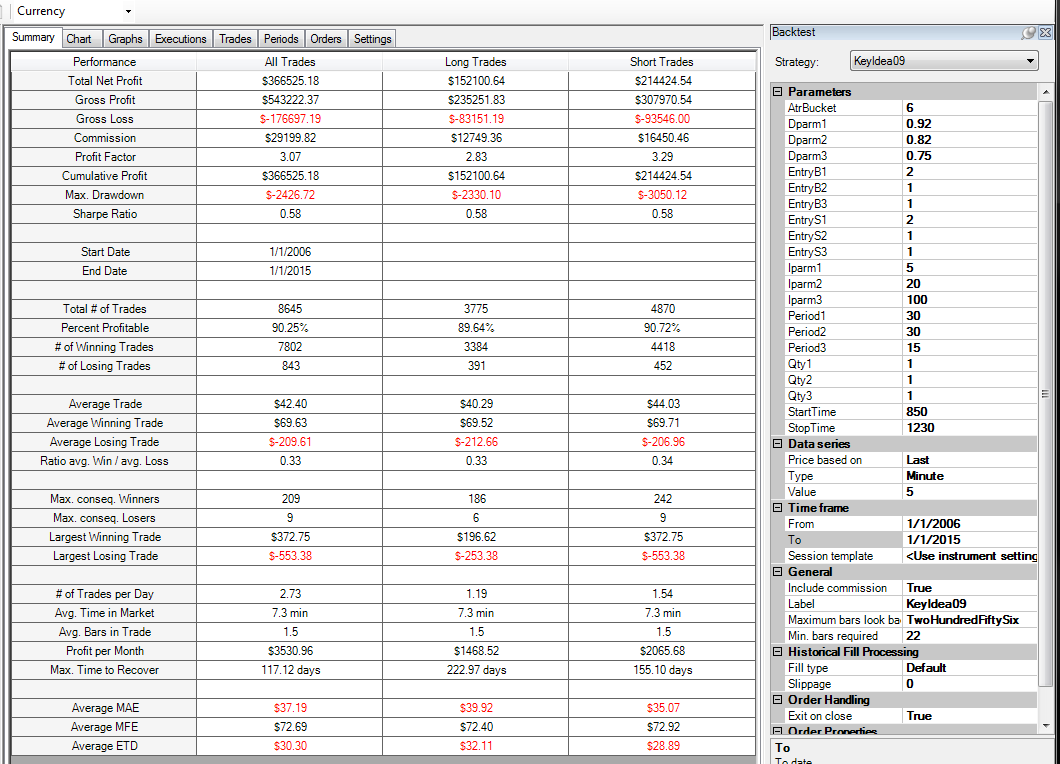
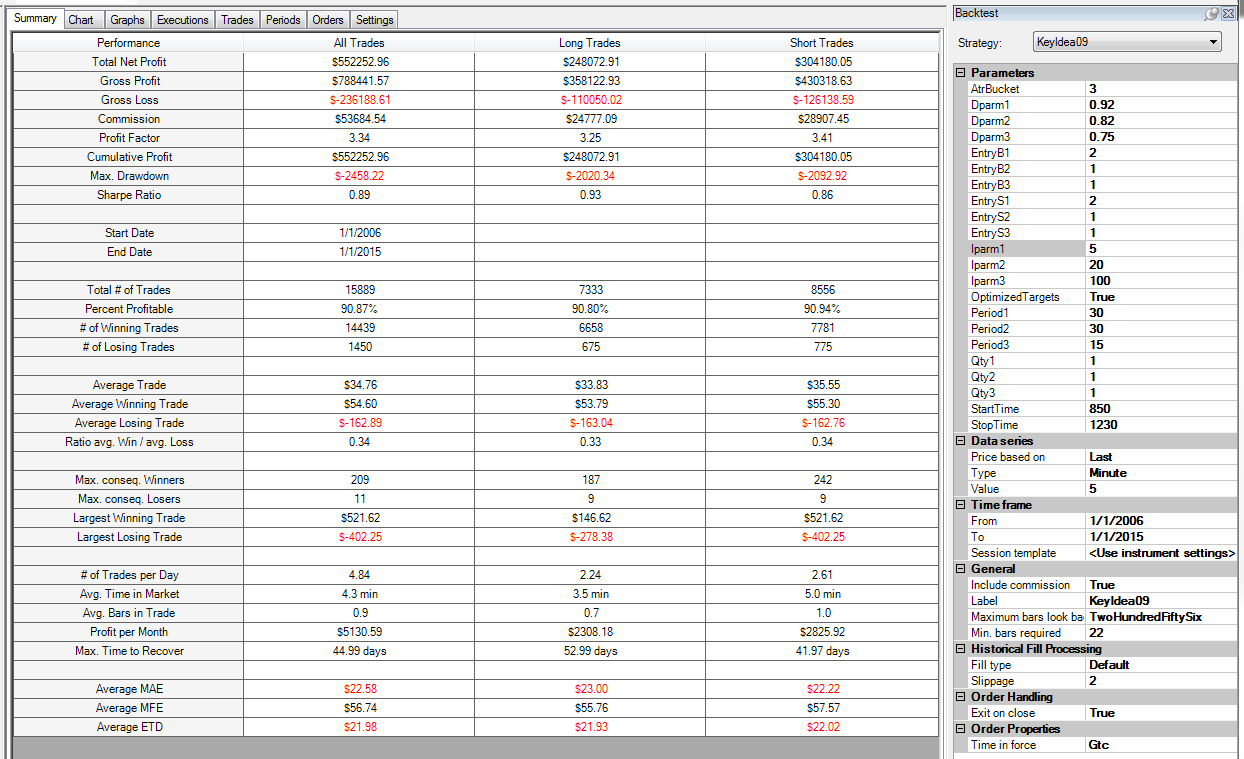
552,252.96 from 1-2006 to 1-2015 with 2 tick slip.  Saving strategy test image

diff --git a/NinjaTrader 7/bin/Custom/Strategy/KeyIdea09.cs b/NinjaTrader 7/bin/Custom/Strategy/KeyIdea09.cs
@@ -188,7 +188,7 @@ namespace NinjaTrader.Strategy
     {
         #region Variables
         // Wizard generated variables
-		private int atrBucket = 6;
+		private int atrBucket = 3;
 		
 		private int entryB1 = 2;  // Buy x ticks pullback
 		private int entryB2 = 1;  // Buy x ticks pullback
@@ -198,14 +198,16 @@ namespace NinjaTrader.Strategy
 		private int entryS2 = 1;  // Sell x ticks pullback
 		private int entryS3 = 1;  // Sell x ticks pullback
 
-		private double dparm1 = 0.92; // Default setting for Dparm1
-        private double dparm2 = 0.82; // Default setting for Dparm2
-        private double dparm3 = 0.75; // Default setting for Dparm2
+//		private double dparm1 = 0.92; // Default setting for Dparm1
+//        private double dparm2 = 0.82; // Default setting for Dparm2
+//        private double dparm3 = 0.75; // Default setting for Dparm2
         
 		private int iparm1 = 5; // Default setting for Target  
         private int iparm2 = 20; // Default setting for Stop
         private int iparm3 = 100; // Default setting for Iparm2
 
+		private bool optimizedTargets = true;
+		
         private int period1 = 30; // Default setting for Period1
         private int period2 = 30; // Default setting for Period2
         private int period3 = 15; // Default setting for Period2
@@ -213,15 +215,18 @@ namespace NinjaTrader.Strategy
 		private int startTime = 850;  // start of trading hhmm
 		private int stopTime = 1230;  // end of trading hhmm
 		
-		private double ratched = 0.68;
-		private bool isMo = true;
-		private bool is2nd = false;
+//		private double ratched = 0.68;
+//		private bool isMo = true;
+//		private bool is2nd = false;
 		
 		int qty1 = 1;
 		int qty2 = 1;
 		int qty3 = 1;
 
 		// User defined variables (add any user defined variables below)
+		int target = 0;
+		int stop = 0;
+		
 		IOrder buyOrder1 = null;
 		IOrder buyOrder2 = null;
 		IOrder buyOrder3 = null;
@@ -276,7 +281,6 @@ namespace NinjaTrader.Strategy
 		
 		HMARick hma = null;
 		ATR atr = null;
-		int atrBucketSize = 1;
 		
         #endregion
 
@@ -294,6 +298,7 @@ namespace NinjaTrader.Strategy
 			// Indicator Setup
 			// ---------------
 			hma = HMARick(Period1, 200);
+			hma.PaintPriceMarkers = false;			
 			Add(hma);
 			
 			Add(PitColor(Color.Black, 83000, 25, 161500));
@@ -323,6 +328,7 @@ namespace NinjaTrader.Strategy
             //SetStopLoss("", CalculationMode.Percent, dparm2, false);
             //SetTrailStop("", CalculationMode.Percent, dparm2, false);
 			
+			//Slippage = 2;
 			BarsRequired = 22;
             CalculateOnBarClose = true;		// Onbar update happens only on the start of a new bar vrs each tick
 			ExitOnClose = true;				// Closes open positions at the end of the session
@@ -345,12 +351,48 @@ namespace NinjaTrader.Strategy
 			
 
 			if ((ToTime(Time[0]) < StartTime * 100) || (ToTime(Time[0]) > StopTime * 100)
-				//|| (atr[0] < AtrBucket || atr[0] > (AtrBucket + 1))
-				|| (atr[0] < 2 || atr[0] > 6)
+				//|| (atr[0] < AtrBucket * 0.5 || atr[0] > (AtrBucket * 0.5 + 0.5))
+				|| (atr[0] < 0.5 || atr[0] > 6)
 				)
 			{
 				ShutDownOrders();
 				return;
+			}
+			
+			if (OptimizedTargets)
+			{
+				int bucket = (int) Math.Truncate(atr[0]/0.5);
+				switch (bucket) {
+					case 0: // not trading	
+						target = iparm1;
+						stop = iparm2;
+						break;
+					case 1:
+						target = 3;
+						stop = 6;
+						break;
+					case 2:
+						target = 3;
+						stop = 8;
+						break;
+					case 3:
+						target = 3;
+						stop = 12;
+						break;
+					case 4:
+						target = 4;
+						stop = 12;
+						break;
+					default:
+						target = iparm1;
+						stop = iparm2;
+						break;
+				}
+			} 
+			else
+			{
+				target = iparm1;
+				stop = iparm2;
 			}
 			
 			// No Trade zone
@@ -377,7 +419,7 @@ namespace NinjaTrader.Strategy
 			// ============================================
 			// New long order placement
 			// ============================================
-			if (hma.TrendSet[0] == 1) //  uptrend
+			if (hma.TrendSet[0] == 1 && sellOrder1 == null) //  uptrend
 			{
 				if (Qty1 > 0)
 				{
@@ -440,7 +482,7 @@ namespace NinjaTrader.Strategy
 			// ============================================
 			// New Short order placement
 			// ============================================
-			if (hma.TrendSet[0] == -1) //  downtrend
+			if (hma.TrendSet[0] == -1 && buyOrder1 == null) //  downtrend
 			{
 				limitPrice = High[0] + EntryS1 * TickSize;
 				stopPrice = limitPrice;
@@ -553,13 +595,13 @@ namespace NinjaTrader.Strategy
 				if (closeLongOrderLimit1 == null) 
 				{
 					limitPrice = 0;
-					stopPrice = buyOrder1.AvgFillPrice - iparm2 * TickSize;
+					stopPrice = buyOrder1.AvgFillPrice - stop * TickSize;
 					//DrawDot(CurrentBar + "stopPrice", false, 0, stopPrice, Color.Red);
 					closeLongOrderStop1 = SubmitOrder(0, OrderAction.Sell, OrderType.Stop, execution.Order.Quantity, 
 						limitPrice, stopPrice, orderPrefix + "ocoCloseB1", "CSB1");
 
 					stopPrice = 0;
-					limitPrice = buyOrder1.AvgFillPrice + iparm1 * TickSize;
+					limitPrice = buyOrder1.AvgFillPrice + target * TickSize;
 					//DrawDot(CurrentBar + "limitPrice", false, 0, limitPrice, Color.Green);
 					closeLongOrderLimit1 = SubmitOrder(0, OrderAction.Sell, OrderType.Limit, execution.Order.Quantity, 
 						limitPrice, stopPrice, orderPrefix + "ocoCloseB1", "CLB1");
@@ -571,12 +613,12 @@ namespace NinjaTrader.Strategy
 				if (closeLongOrderLimit2 == null) 
 				{
 					limitPrice = 0;
-					stopPrice = buyOrder2.AvgFillPrice - (iparm2 - EntryS2) * TickSize;
+					stopPrice = buyOrder2.AvgFillPrice - (stop - EntryS2) * TickSize;
 					closeLongOrderStop2 = SubmitOrder(0, OrderAction.Sell, OrderType.Stop, execution.Order.Quantity, 
 						limitPrice, stopPrice, orderPrefix + "ocoCloseB2", "CSB2");
 
 					stopPrice = 0;
-					limitPrice = buyOrder2.AvgFillPrice + (iparm1 + EntryS2) * TickSize;
+					limitPrice = buyOrder2.AvgFillPrice + (target + EntryS2) * TickSize;
 					closeLongOrderLimit2 = SubmitOrder(0, OrderAction.Sell, OrderType.Limit, execution.Order.Quantity, 
 						limitPrice, stopPrice, orderPrefix + "ocoCloseB2", "CLB2");
 				} 
@@ -587,12 +629,12 @@ namespace NinjaTrader.Strategy
 				if (closeLongOrderLimit3 == null) 
 				{
 					limitPrice = 0;
-					stopPrice = buyOrder3.AvgFillPrice - (iparm2 - EntryS2 - EntryS3) * TickSize;
+					stopPrice = buyOrder3.AvgFillPrice - (stop - EntryS2 - EntryS3) * TickSize;
 					closeLongOrderStop3 = SubmitOrder(0, OrderAction.Sell, OrderType.Stop, execution.Order.Quantity, 
 						limitPrice, stopPrice, orderPrefix + "ocoCloseB3", "CSB3");
 
 					stopPrice = 0;
-					limitPrice = buyOrder3.AvgFillPrice + (iparm1 + EntryS2 + EntryS3) * TickSize;
+					limitPrice = buyOrder3.AvgFillPrice + (target + EntryS2 + EntryS3) * TickSize;
 					closeLongOrderLimit3 = SubmitOrder(0, OrderAction.Sell, OrderType.Limit, execution.Order.Quantity, 
 						limitPrice, stopPrice, orderPrefix + "ocoCloseB3", "CLB3");
 				}
@@ -608,13 +650,13 @@ namespace NinjaTrader.Strategy
 				if (closeShortOrderLimit1 == null) 
 				{
 					limitPrice = 0;
-					stopPrice = sellOrder1.AvgFillPrice + iparm2 * TickSize;
+					stopPrice = sellOrder1.AvgFillPrice + stop * TickSize;
 					//DrawDot(CurrentBar + "stopPrice", false, 0, stopPrice, Color.Red);
 					closeLongOrderStop1 = SubmitOrder(0, OrderAction.BuyToCover, OrderType.Stop, execution.Order.Quantity, 
 						limitPrice, stopPrice, orderPrefix + "ocoCloseS1", "CSS1");
 
 					stopPrice = 0;
-					limitPrice = sellOrder1.AvgFillPrice - iparm1 * TickSize;
+					limitPrice = sellOrder1.AvgFillPrice - target * TickSize;
 					//DrawDot(CurrentBar + "limitPrice", false, 0, limitPrice, Color.Green);
 					closeShortOrderLimit1 = SubmitOrder(0, OrderAction.BuyToCover, OrderType.Limit, execution.Order.Quantity, 
 						limitPrice, stopPrice, orderPrefix + "ocoCloseS1", "CLS1");
@@ -626,12 +668,12 @@ namespace NinjaTrader.Strategy
 				if (closeShortOrderLimit2 == null) 
 				{
 					limitPrice = 0;
-					stopPrice = sellOrder2.AvgFillPrice + (iparm2 - EntryS2) * TickSize;
+					stopPrice = sellOrder2.AvgFillPrice + (stop - EntryS2) * TickSize;
 					closeLongOrderStop2 = SubmitOrder(0, OrderAction.BuyToCover, OrderType.Stop, execution.Order.Quantity, 
 						limitPrice, stopPrice, orderPrefix + "ocoCloseS2", "CSS2");
 
 					stopPrice = 0;
-					limitPrice = sellOrder2.AvgFillPrice - (iparm1 + EntryS2) * TickSize;
+					limitPrice = sellOrder2.AvgFillPrice - (target + EntryS2) * TickSize;
 					closeShortOrderLimit2 = SubmitOrder(0, OrderAction.BuyToCover, OrderType.Limit, execution.Order.Quantity, 
 						limitPrice, stopPrice, orderPrefix + "ocoCloseS2", "CLS2");
 				} 
@@ -642,12 +684,12 @@ namespace NinjaTrader.Strategy
 				if (closeShortOrderLimit3 == null) 
 				{
 					limitPrice = 0;
-					stopPrice = sellOrder3.AvgFillPrice + (iparm2 - EntryS2 - EntryS3) * TickSize;
+					stopPrice = sellOrder3.AvgFillPrice + (stop - EntryS2 - EntryS3) * TickSize;
 					closeLongOrderStop3 = SubmitOrder(0, OrderAction.BuyToCover, OrderType.Stop, execution.Order.Quantity, 
 						limitPrice, stopPrice, orderPrefix + "ocoCloseS3", "CSS3");
 
 					stopPrice = 0;
-					limitPrice = sellOrder3.AvgFillPrice - (iparm1 + EntryS2 + EntryS3) * TickSize;
+					limitPrice = sellOrder3.AvgFillPrice - (target + EntryS2 + EntryS3) * TickSize;
 					closeShortOrderLimit3 = SubmitOrder(0, OrderAction.BuyToCover, OrderType.Limit, execution.Order.Quantity, 
 						limitPrice, stopPrice, orderPrefix + "ocoCloseS3", "CLS3");
 				} 
@@ -908,13 +950,20 @@ namespace NinjaTrader.Strategy
 			closeShortOrder3 = null;
 		}
 		
+		protected override void OnTermination()
+		{
+			// Clean up your resources here
+			Print("ATR Range used: " + (AtrBucket * 0.5) + " to " + (AtrBucket * 0.5 + 0.5));
+		}
+ 
+		
         #region Properties
         [Description("")]
         [GridCategory("Parameters")]
         public int AtrBucket
         {
             get { return atrBucket; }
-            set { atrBucket = Math.Max(0, value); }
+            set { atrBucket = value; }
         }
 
         [Description("")]
@@ -991,6 +1040,14 @@ namespace NinjaTrader.Strategy
 
         [Description("")]
         [GridCategory("Parameters")]
+        public bool OptimizedTargets
+        {
+            get { return optimizedTargets; }
+            set { optimizedTargets = value; }
+        }
+
+        [Description("")]
+        [GridCategory("Parameters")]
         public int Period1
         {
             get { return period1; }
@@ -1013,29 +1070,29 @@ namespace NinjaTrader.Strategy
             set { period3 = Math.Max(-50, value); }
         }
 
-        [Description("")]
-        [GridCategory("Parameters")]
-        public double Dparm1
-        {
-            get { return dparm1; }
-            set { dparm1 = Math.Max(0.000, value); }
-        }
-
-        [Description("")]
-        [GridCategory("Parameters")]
-        public double Dparm2
-        {
-            get { return dparm2; }
-            set { dparm2 = Math.Max(0.000, value); }
-        }
-
-        [Description("")]
-        [GridCategory("Parameters")]
-        public double Dparm3
-        {
-            get { return dparm3; }
-            set { dparm3 = Math.Max(0.000, value); }
-        }
+//        [Description("")]
+//        [GridCategory("Parameters")]
+//        public double Dparm1
+//        {
+//            get { return dparm1; }
+//            set { dparm1 = Math.Max(0.000, value); }
+//        }
+//
+//        [Description("")]
+//        [GridCategory("Parameters")]
+//        public double Dparm2
+//        {
+//            get { return dparm2; }
+//            set { dparm2 = Math.Max(0.000, value); }
+//        }
+//
+//        [Description("")]
+//        [GridCategory("Parameters")]
+//        public double Dparm3
+//        {
+//            get { return dparm3; }
+//            set { dparm3 = Math.Max(0.000, value); }
+//        }
 
         [Description("")]
         [GridCategory("Parameters")]
